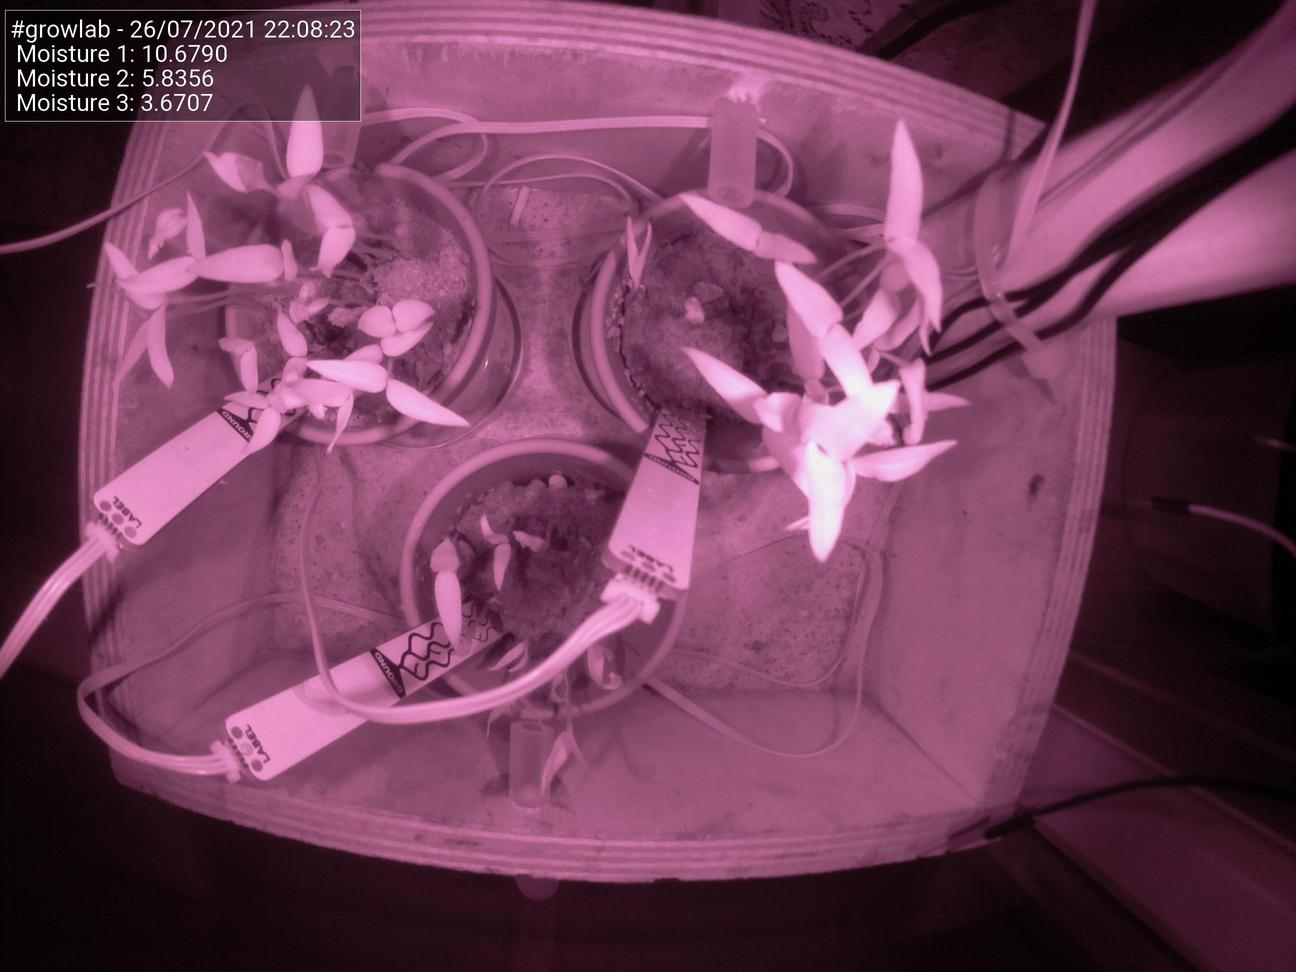
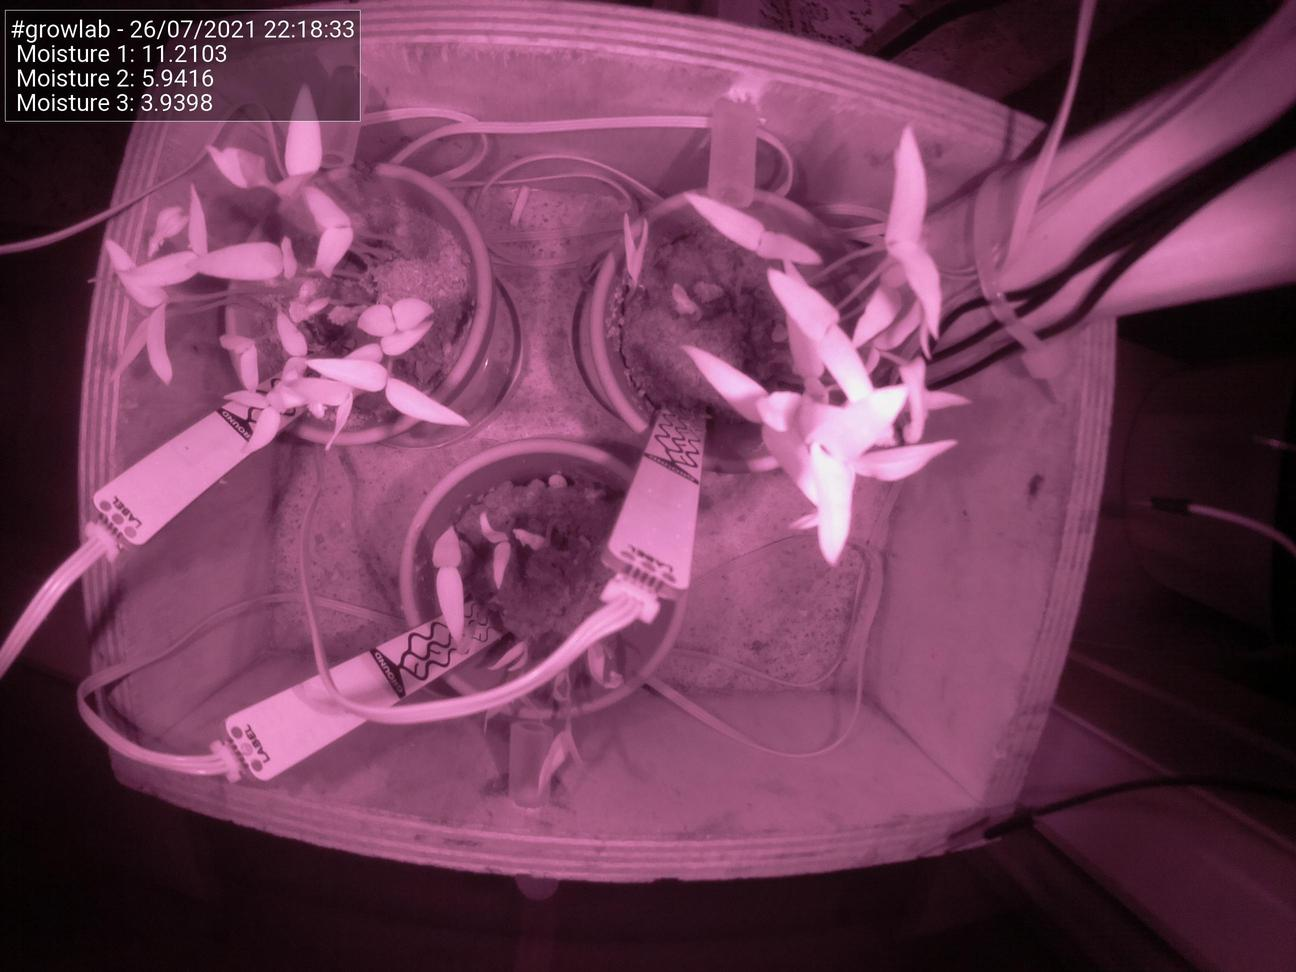
Update images at Mon 26 Jul 22:18:39 BST 2021

diff --git a/docs/index.html b/docs/index.html
@@ -51,25 +51,25 @@
                                 <td>Date</td>
                                 <td>26/07/2021</td>
                                 <td>Time</td>
-                                <td>22:08:23</td>
+                                <td>22:18:33</td>
                             </tr>
                             <tr>
                                 <td>Temperature</td>
                                 <td>N/A</td>
                                 <td>Moisture 1</td>
-                                <td>10.6790</td>
+                                <td>11.2103</td>
                             </tr>
                             <tr>
                                 <td>Humidity</td>
                                 <td>N/A</td>
                                 <td>Moisture 2</td>
-                                <td>5.8356</td>
+                                <td>5.9416</td>
                             </tr>
                             <tr>
                                 <td>Pressure</td>
                                 <td>N/A</td>
                                 <td>Moisture 3</td>
-                                <td>3.6707</td>
+                                <td>3.9398</td>
                             </tr>
                         </tbody>
                     </table>
@@ -77,7 +77,7 @@
 
                 <h5>Latest image</h5>
                 <div style="width: 85%;">
-                            <img class="figure-img img-fluid rounded" src="./preview.jpg?uid=1627333708.620113">
+                            <img class="figure-img img-fluid rounded" src="./preview.jpg?uid=1627334318.9051194">
                 </div>
             </div>
         </div>
